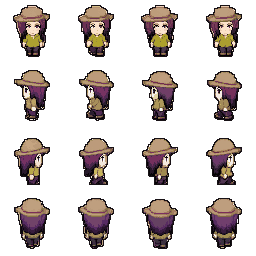
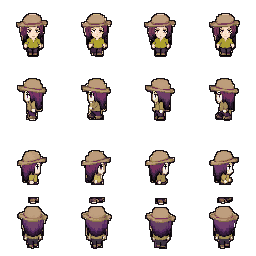
fix(sprites): fill hollow hair cavities on white-haired characters and remove row-2 foot leak strips on right walk frames

diff --git a/tools/normalize_sprite_anchors.py b/tools/normalize_sprite_anchors.py
@@ -50,9 +50,9 @@ def clean_and_normalize_sheet(source: Path, destination: Path) -> None:
 
         row_slice = arr[y1_src:y2_src, :].copy()
 
-        # If row 2, clear the bottom 10px where row 3 head might leak
-        if row == 2 and row_slice.shape[0] == CELL:
-            row_slice[54:, :] = 0
+        # If row 2, strictly clear bottom 16px where row 3 head might leak
+        if row == 2:
+            row_slice[row_slice.shape[0] - 16 :, :] = 0
 
         col_splits = dynamic_column_split(row_slice[..., 3])
 
@@ -60,25 +60,43 @@ def clean_and_normalize_sheet(source: Path, destination: Path) -> None:
             x1_src, x2_src = col_splits[col]
             cell = row_slice[:, x1_src:x2_src].copy()
 
-            # Remove edge leak components from neighbor cells and small 1-2px floating dust
+            # Remove disconnected edge leaks from neighbor cells and small 1-2px floating dust
             binary = cell[..., 3] > 20
             labeled, num_features = ndimage.label(binary)
             if num_features > 0:
                 sizes = ndimage.sum_labels(binary, labeled, range(1, num_features + 1))
-                largest_size = float(max(sizes))
+                main_label = int(np.argmax(sizes)) + 1
 
                 for label_idx, size in enumerate(sizes, 1):
-                    pts = np.argwhere(labeled == label_idx)
-                    touches_edge = (
-                        pts[:, 0].min() <= 1
-                        or pts[:, 0].max() >= cell.shape[0] - 2
-                        or pts[:, 1].min() <= 1
-                        or pts[:, 1].max() >= cell.shape[1] - 2
-                    )
-                    if touches_edge and size < largest_size * 0.20:
-                        cell[labeled == label_idx] = 0
-                    elif size <= 3:
-                        cell[labeled == label_idx] = 0
+                    if label_idx != main_label and size <= 45:
+                        pts = np.argwhere(labeled == label_idx)
+                        touches_edge = (
+                            pts[:, 0].min() <= 1
+                            or pts[:, 0].max() >= cell.shape[0] - 2
+                            or pts[:, 1].min() <= 1
+                            or pts[:, 1].max() >= cell.shape[1] - 2
+                        )
+                        if touches_edge or size <= 3:
+                            cell[labeled == label_idx] = 0
+
+            # Fill any hollow internal holes or concavities in hair / skin / clothes
+            binary_clean = cell[..., 3] > 20
+            closed = ndimage.binary_closing(binary_clean, structure=np.ones((5, 5)))
+            solid = ndimage.binary_fill_holes(closed)
+            holes = solid & ~binary_clean
+
+            if np.any(holes):
+                upper_pixels = cell[(cell[..., 3] > 20) & (np.indices(cell.shape[:2])[0] < int(cell.shape[0] * 0.5))]
+                if len(upper_pixels) > 0:
+                    med_r = int(np.median(upper_pixels[..., 0]))
+                    med_g = int(np.median(upper_pixels[..., 1]))
+                    med_b = int(np.median(upper_pixels[..., 2]))
+                else:
+                    med_r, med_g, med_b = 222, 228, 232
+                cell[holes, 0] = med_r
+                cell[holes, 1] = med_g
+                cell[holes, 2] = med_b
+                cell[holes, 3] = 255
 
             frame_img = Image.fromarray(cell, "RGBA")
             frames.append(frame_img)
